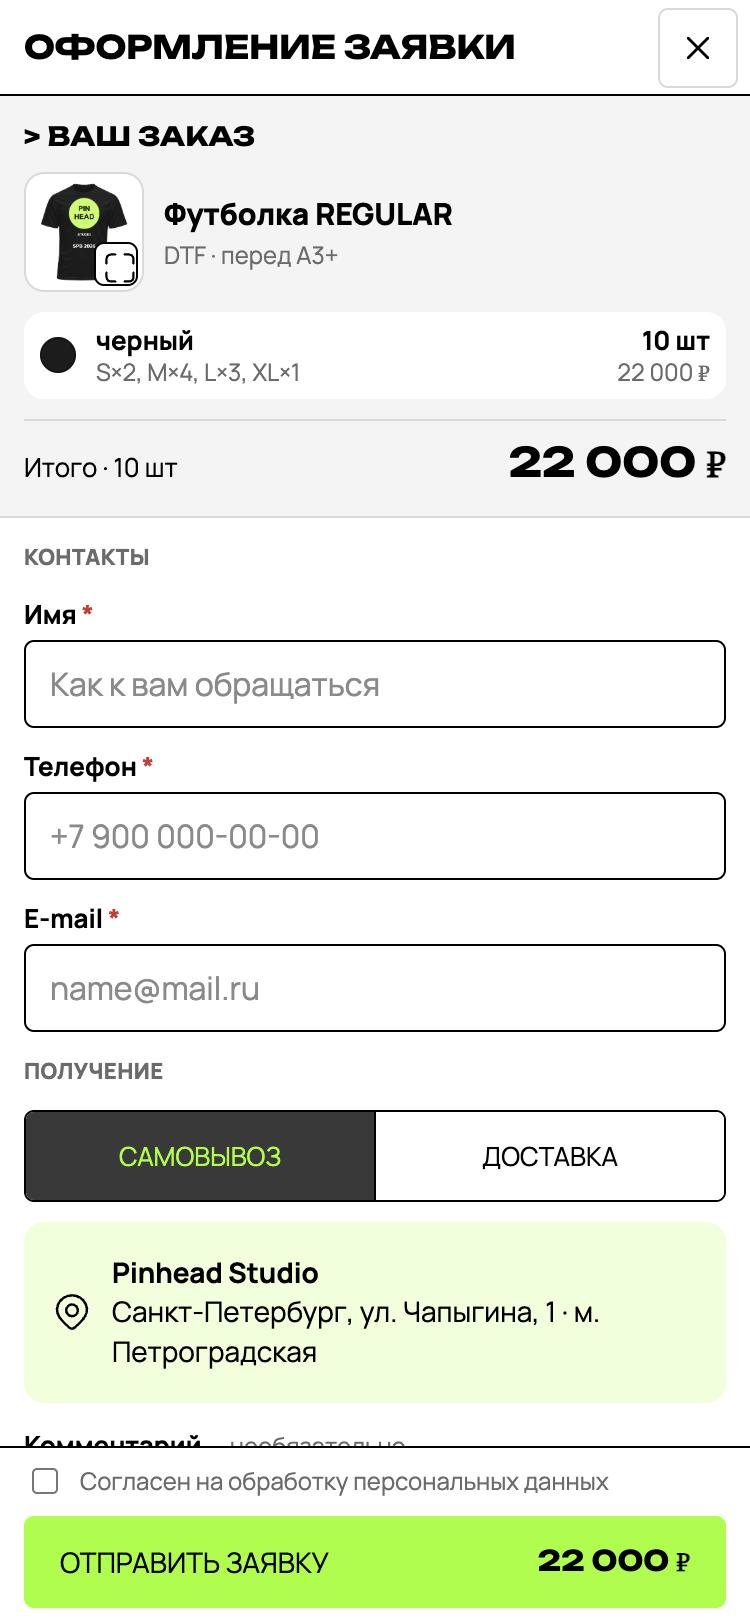
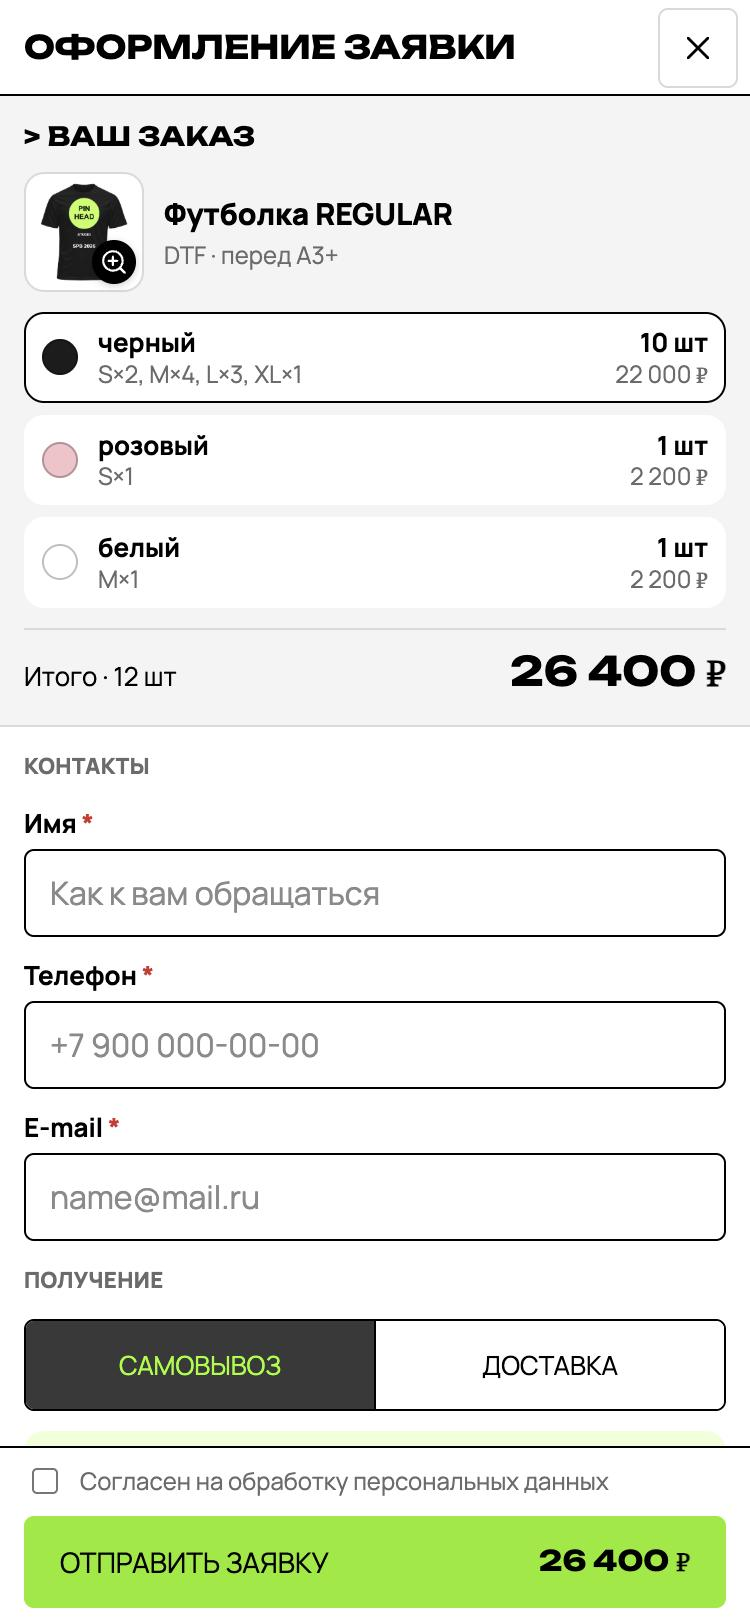
Сводка заявки: переключение цветов и новая кнопка увеличения
Строки цветов в сводке переключают превью на выбранный цвет (снимки кешируются).
Кнопка увеличения превью — круглая, с лупой; на телефоне иконка помещается в кнопку.

diff --git a/src/features/constructor/ui/OrderForm.tsx b/src/features/constructor/ui/OrderForm.tsx
@@ -87,32 +87,46 @@ export function OrderForm({ garment, variant, price, stage, endpoint, onClose }:
   const [zoomed, setZoomed] = useState(false);
   const started = useRef(false);
   const touchX = useRef(0); // свайп в увеличенном просмотре
+  // Снимки по цветам: клик по строке цвета в сводке показывает превью этого цвета.
+  const [active, setActive] = useState(variant.productId);
+  const cache = useRef(new Map<string, Array<{ side: Side; src: string }>>());
+  const shoot = async (productId: string) => {
+    const cached = cache.current.get(productId);
+    if (cached) { setShots(cached); return; }
+    setCapturing(true);
+    const sides = sidesFor(garment).filter((sd) => layers.some((l) => l.side === sd));
+    const out: Array<{ side: Side; src: string }> = [];
+    stage.current?.setTurnEnabled(false);
+    try {
+      if (productId !== variant.productId) selectVariant(productId);
+      for (const sd of sides) {
+        setSide(sd);
+        if (!stage.current) break;
+        await stage.current.whenReady();
+        const src = stage.current.exportPreview();
+        if (src) { out.push({ side: sd, src }); setShots([...out]); }
+      }
+      if (out.length) cache.current.set(productId, out);
+    } catch {
+      // Без превью заявку всё равно можно отправить.
+    } finally {
+      setSide(side);
+      stage.current?.setTurnEnabled(true);
+      setCapturing(false);
+    }
+  };
   useEffect(() => {
     if (started.current) return; // StrictMode вызывает эффект дважды
     started.current = true;
-    (async () => {
-      const sides = sidesFor(garment).filter((sd) => layers.some((l) => l.side === sd));
-      const out: Array<{ side: Side; src: string }> = [];
-      stage.current?.setTurnEnabled(false);
-      try {
-        for (const sd of sides) {
-          setSide(sd);
-          if (!stage.current) break;
-          await stage.current.whenReady();
-          const src = stage.current.exportPreview();
-          if (src) { out.push({ side: sd, src }); setShots([...out]); }
-        }
-      } catch {
-        // Без превью заявку всё равно можно отправить.
-      } finally {
-        setSide(side);
-        stage.current?.setTurnEnabled(true);
-        setCapturing(false);
-      }
-    })();
+    void shoot(variant.productId);
     // Снимки — один раз при открытии.
     // eslint-disable-next-line react-hooks/exhaustive-deps
   }, []);
+  const pick = (productId: string) => {
+    if (capturing || productId === active) return;
+    setActive(productId);
+    void shoot(productId);
+  };
   const cur = shots[Math.min(shot, shots.length - 1)];
   const flip = (d: number) => setShot((i) => (i + d + shots.length) % shots.length);
 
@@ -281,7 +295,7 @@ export function OrderForm({ garment, variant, price, stage, endpoint, onClose }:
                   {cur ? (
                     <button type="button" className={f.shotBtn} onClick={() => setZoomed(true)} aria-label="Увеличить превью">
                       {/* eslint-disable-next-line @next/next/no-img-element */}
-                      <img className={f.preview} src={cur.src} alt={`Превью: ${SIDE_LABEL[cur.side].toLowerCase()}`} />
+                      <img key={cur.src} className={f.preview} src={cur.src} alt={`Превью: ${SIDE_LABEL[cur.side].toLowerCase()}`} />
                     </button>
                   ) : (
                     <div className={`${f.preview} ${f.previewStub}`} aria-hidden />
@@ -299,7 +313,7 @@ export function OrderForm({ garment, variant, price, stage, endpoint, onClose }:
                   )}
                   {cur && (
                     <button type="button" className={f.zoomBtn} onClick={() => setZoomed(true)} aria-label="Увеличить" title="Увеличить">
-                      <Icon name="expand" size={18} />
+                      <Icon name="zoomIn" />
                     </button>
                   )}
                 </div>
@@ -312,13 +326,27 @@ export function OrderForm({ garment, variant, price, stage, endpoint, onClose }:
                 </div>
               </div>
               <ul className={f.lines}>
-                {price.lines.map((l) => (
-                  <li key={l.productId} className={f.line}>
-                    <i style={{ background: l.hex }} />
-                    <span className={f.lineName}>{l.color}<small>{l.sizes.map(([k, n]) => `${k}×${n}`).join(', ')}</small></span>
-                    <span className={f.lineSum}>{l.qty} шт<small>{rub(l.total)}</small></span>
-                  </li>
-                ))}
+                {price.lines.map((l) => {
+                  const body = (
+                    <>
+                      <i style={{ background: l.hex }} />
+                      <span className={f.lineName}>{l.color}<small>{l.sizes.map(([k, n]) => `${k}×${n}`).join(', ')}</small></span>
+                      <span className={f.lineSum}>{l.qty} шт<small>{rub(l.total)}</small></span>
+                    </>
+                  );
+                  return (
+                    <li key={l.productId}>
+                      {price.lines.length > 1 ? (
+                        <button
+                          type="button" className={f.line} aria-pressed={l.productId === active} disabled={capturing}
+                          onClick={() => pick(l.productId)} title={`Показать превью: ${l.color}`}
+                        >{body}</button>
+                      ) : (
+                        <div className={f.line}>{body}</div>
+                      )}
+                    </li>
+                  );
+                })}
               </ul>
               <div className={f.total}>
                 <span>Итого · {price.qty} шт</span>

diff --git a/src/features/constructor/ui/orderForm.module.css b/src/features/constructor/ui/orderForm.module.css
@@ -49,9 +49,11 @@
 .arrowR { right: 8px; }
 .zoomBtn {
   position: absolute; right: 8px; bottom: 8px; width: 34px; height: 34px; display: grid; place-items: center; padding: 0;
-  border: 1px solid var(--ink); border-radius: var(--r-ctl); background: #fff; cursor: pointer;
+  border: 0; border-radius: 50%; background: var(--ink); color: #fff; cursor: pointer;
+  box-shadow: 0 1px 4px rgb(0 0 0 / .2);
 }
-.zoomBtn:hover { background: var(--lime); }
+.zoomBtn svg { width: 18px; height: 18px; }
+.zoomBtn:hover { background: var(--lime); color: var(--ink); }
 
 /* Увеличенный просмотр поверх окна заявки */
 .zoom {
@@ -76,8 +78,14 @@
 
 .lines { list-style: none; margin: 0; padding: 0; display: flex; flex-direction: column; gap: 6px; }
 .line {
-  display: flex; align-items: center; gap: 10px; padding: 8px 10px; border-radius: 10px; background: #fff; font-size: 14px;
+  display: flex; align-items: center; gap: 10px; width: 100%; padding: 8px 10px; border: 1px solid transparent; border-radius: 10px;
+  background: #fff; font: inherit; font-size: 14px; color: inherit; text-align: left;
 }
+/* Несколько цветов — строка переключает превью на этот цвет. */
+button.line { cursor: pointer; transition: border-color .2s; }
+button.line[aria-pressed='false']:hover:not(:disabled) { border-color: var(--line); }
+button.line[aria-pressed='true'] { border-color: var(--ink); }
+button.line:disabled { cursor: progress; }
 .line i { width: 18px; height: 18px; flex: none; border-radius: 50%; box-shadow: inset 0 0 0 1px rgb(0 0 0 / .25); }
 .lineName, .lineSum { display: flex; flex-direction: column; line-height: 1.25; }
 .lineName { flex: 1; min-width: 0; font-weight: 700; }
@@ -166,7 +174,8 @@
   .total b { font-size: 20px; }
   .preview { border-radius: 10px; }
   .gallery .arrow, .gallery .shotSide { display: none; }
-  .zoomBtn { right: 3px; bottom: 3px; width: 22px; height: 22px; padding: 3px; }
+  .zoomBtn { right: 4px; bottom: 4px; width: 22px; height: 22px; }
+  .zoomBtn svg { width: 13px; height: 13px; }
   .zoom { padding: 12px; }
   .zoomFig { padding: 12px 8px; }
   .zoomFig img { width: calc(100vw - 40px); }

diff --git a/src/features/constructor/ui/icons.tsx b/src/features/constructor/ui/icons.tsx
@@ -30,6 +30,7 @@ const PATHS = {
   check: '<g fill="none" stroke="currentColor" stroke-width="1.5"><path d="M22 12c0-5.523-4.477-10-10-10S2 6.477 2 12s4.477 10 10 10s10-4.477 10-10Z"/><path stroke-linecap="round" stroke-linejoin="round" d="m8 12.5l2.5 2.5L16 9"/></g>',
   checkMark: '<path fill="none" stroke="currentColor" stroke-linecap="round" stroke-linejoin="round" stroke-width="1.8" d="M5 14.5s1.5 0 3.5 3.5c0 0 5.559-9.167 10.5-11"/>',
   expand: '<path fill="none" stroke="currentColor" stroke-linecap="round" stroke-linejoin="round" stroke-width="1.5" d="M9 3H6a3 3 0 0 0-3 3v3m12-6h3a3 3 0 0 1 3 3v3m0 6v3a3 3 0 0 1-3 3h-3m-6 0H6a3 3 0 0 1-3-3v-3"/>',
+  zoomIn: '<path fill="none" stroke="currentColor" stroke-linecap="round" stroke-linejoin="round" stroke-width="2" d="M17.5 17.5L22 22m-2-11a9 9 0 1 0-18 0a9 9 0 0 0 18 0M11 7v8m4-4H7"/>',
   mapPin: '<g fill="none" stroke="currentColor" stroke-width="1.5"><path d="M13.618 21.367A2.37 2.37 0 0 1 12 22a2.37 2.37 0 0 1-1.617-.633C6.412 17.626 1.09 13.447 3.685 7.38C5.09 4.1 8.458 2 12.001 2s6.912 2.1 8.315 5.38c2.592 6.06-2.717 10.259-6.698 13.987Z"/><path d="M15.5 11a3.5 3.5 0 1 1-7 0a3.5 3.5 0 0 1 7 0Z"/></g>',
   alert: '<g fill="none" stroke="currentColor" stroke-linecap="round" stroke-linejoin="round" stroke-width="1.5"><path d="M13.925 21h-3.85c-4.63 0-6.945 0-7.799-1.506c-.853-1.506.331-3.503 2.7-7.495L6.9 8.753C9.176 4.918 10.313 3 12 3s2.824 1.918 5.1 5.753L19.023 12c2.369 3.992 3.553 5.989 2.7 7.495C20.87 21 18.555 21 13.924 21M12 9v4"/><path d="M12.125 16.75H12m.25 0a.25.25 0 1 1-.5 0a.25.25 0 0 1 .5 0"/></g>',
   image: '<g fill="none" stroke="currentColor" stroke-width="1.5"><circle cx="7.5" cy="7.5" r="1.5" stroke-linecap="round" stroke-linejoin="round"/><path d="M2.5 12c0-4.478 0-6.718 1.391-8.109S7.521 2.5 12 2.5c4.478 0 6.718 0 8.109 1.391S21.5 7.521 21.5 12c0 4.478 0 6.718-1.391 8.109S16.479 21.5 12 21.5c-4.478 0-6.718 0-8.109-1.391S2.5 16.479 2.5 12Z"/><path d="M5 21c4.372-5.225 9.274-12.116 16.498-7.458"/></g>',
